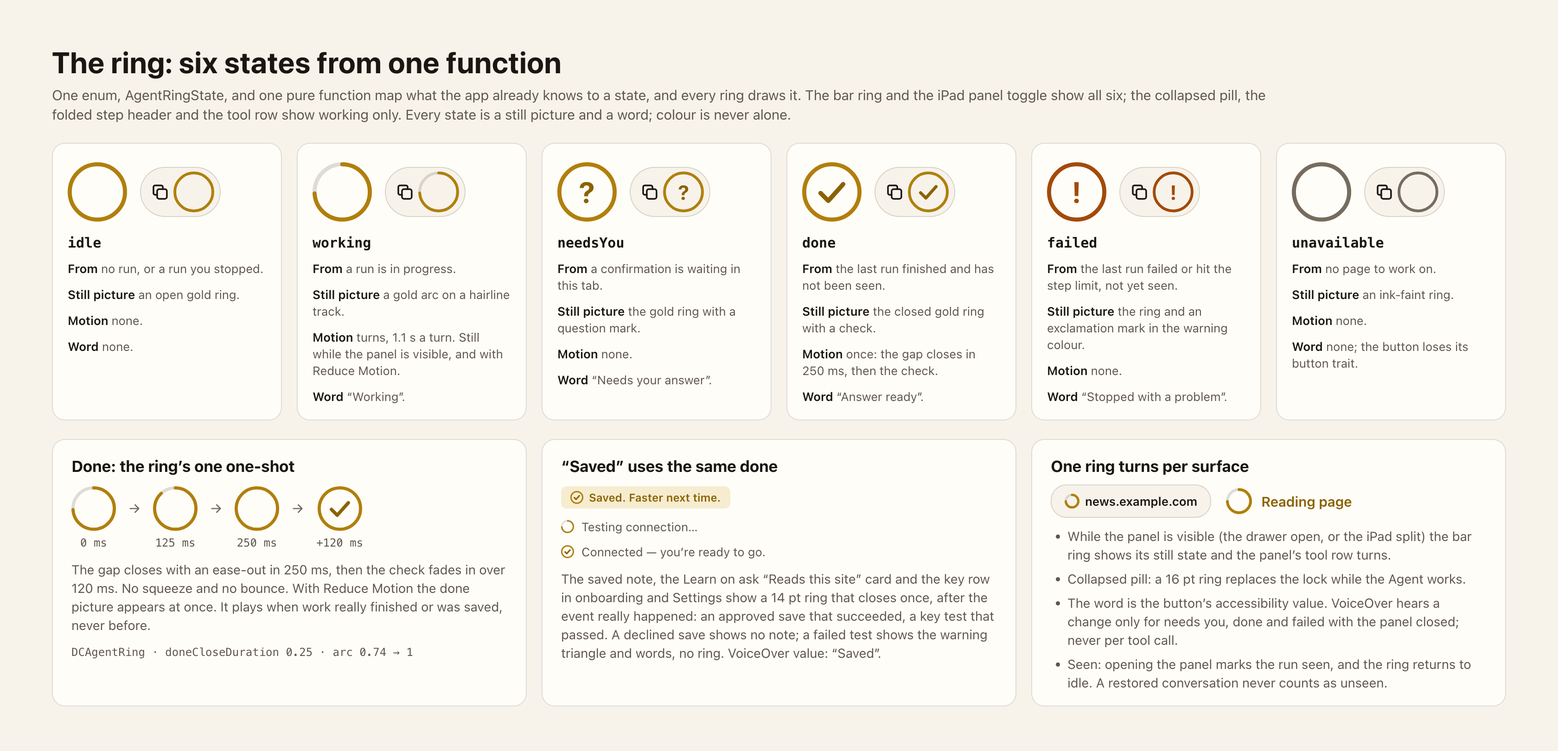
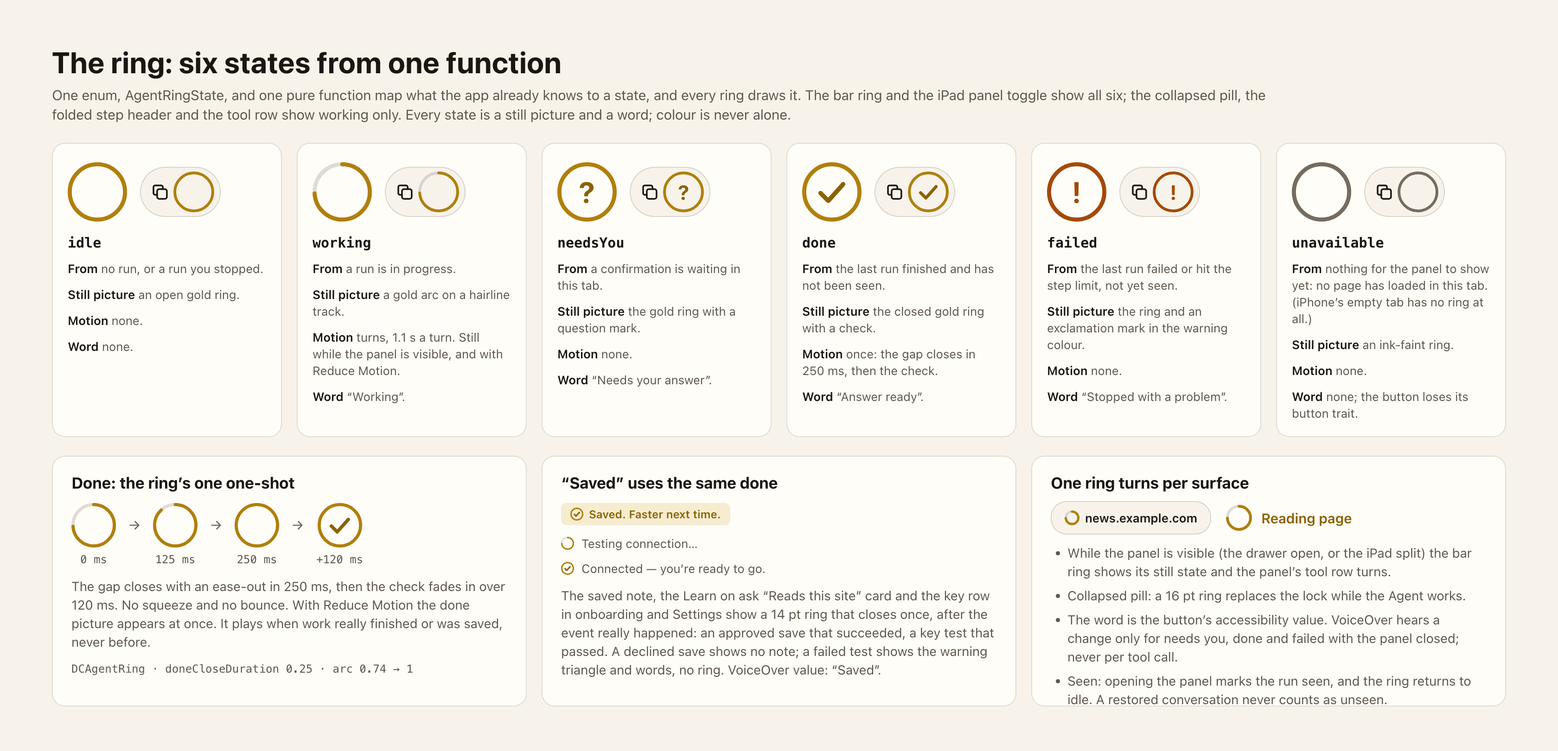
WUKO-200: review fixes: unavailable ring, read aloud wording, canvas v74
- MotionRing: unavailable is 'nothing for the panel to show yet', as
  AgentRingState.resolve and the build have it (iPhone's empty tab has no
  ring; the iPad toggle is gold once a tab has had a page); design-motion.md
  section 8 gains the row
- PhoneTerms: the disabled attribute is quoted (canvas format rule)
- re-exported the two boards and their four PNGs (canvas version 74)
- design-unified.md: the Migration list, Glossary and intro mirror the
  boards: Today, digest and Now playing rows are 'delete'; 'Podcast' is
  'Read aloud' / the listen row, after the build's own strings

diff --git a/docs/wukongmind/design/unified-canvas/PhoneTerms.dc.html b/docs/wukongmind/design/unified-canvas/PhoneTerms.dc.html
@@ -210,7 +210,7 @@ body{margin:0}
 <a href="#" style="display: flex; align-items: center; gap: 8px; font-size: 15px; font-weight: 600; color: var(--blue); text-decoration: none;"><svg viewBox="0 0 24 24" aria-hidden="true" style="width: 16px; height: 16px;"><path d="M7 3h7l4 4v14H7z"/><path d="M14 3v4h4M10 12h5M10 16h5"/></svg>Read the full Terms of Use</a>
 <div style="display: flex; align-items: center; gap: 12px; min-height: 44px;"><span style="flex: 1; font-size: 16px; font-weight: 500;">I agree to the Terms of Use</span><span role="switch" aria-checked="false" aria-label="I agree to the Terms of Use" style="width: 51px; height: 31px; border-radius: 16px; background: var(--raised); position: relative; flex-shrink: 0; box-shadow: inset 0 0 0 1px var(--border);"><span style="position: absolute; top: 2px; left: 2px; width: 27px; height: 27px; border-radius: 14px; background: #fff; box-shadow: 0 1px 3px rgba(0,0,0,.25);"></span></span></div>
 </div></div>
-<div style="position: absolute; left: 0; right: 0; bottom: 0; padding: 12px 20px 40px; border-top: 1px solid var(--border); background: var(--page);"><button disabled style="width: 100%; min-height: 50px; border: 0; border-radius: 10px; background: var(--raised); color: var(--ter); font-size: 17px; font-weight: 600;">Continue</button></div></div><div class="w2cap" style="width: 390px;"><b>Terms of Use: once, before the first run</b>A full-screen page after onboarding’s site step and before step 3. Three plain points, a link to the full text, and one switch. Continue stays disabled until the switch is on. The Terms are also linked from Settings › About.<div class="k">termsGate · Continue disabled</div></div></div><div style="display: flex; flex-direction: column; gap: 20px;"><div class="w2frame"><div style="position: absolute; left: 0; right: 0; top: 62px; padding: 0 20px; display: flex; flex-direction: column; gap: 10px;">
+<div style="position: absolute; left: 0; right: 0; bottom: 0; padding: 12px 20px 40px; border-top: 1px solid var(--border); background: var(--page);"><button disabled="disabled" style="width: 100%; min-height: 50px; border: 0; border-radius: 10px; background: var(--raised); color: var(--ter); font-size: 17px; font-weight: 600;">Continue</button></div></div><div class="w2cap" style="width: 390px;"><b>Terms of Use: once, before the first run</b>A full-screen page after onboarding’s site step and before step 3. Three plain points, a link to the full text, and one switch. Continue stays disabled until the switch is on. The Terms are also linked from Settings › About.<div class="k">termsGate · Continue disabled</div></div></div><div style="display: flex; flex-direction: column; gap: 20px;"><div class="w2frame"><div style="position: absolute; left: 0; right: 0; top: 62px; padding: 0 20px; display: flex; flex-direction: column; gap: 10px;">
 <div style="font-size: 12px; font-weight: 700; letter-spacing: .06em; color: var(--blue);">TERMS OF USE</div>
 <h1 style="margin: 0; font-size: 26px; font-weight: 700;">Before you continue</h1>
 <p style="margin: 0; font-size: 15px; line-height: 21px; color: var(--sec);">Please read and accept the Terms of Use. They explain what isn’t allowed and how to report AI output.</p>

diff --git a/docs/wukongmind/design/unified-canvas/MotionRing.dc.html b/docs/wukongmind/design/unified-canvas/MotionRing.dc.html
@@ -245,7 +245,7 @@ body{margin:0}
 <div class="w2box" style="flex: 1; min-width: 0; display: flex; flex-direction: column; gap: 10px; padding: 16px;">
 <div style="display: flex; align-items: center; gap: 14px; min-height: 72px;"><svg viewBox="0 0 64 64" role="img" aria-label="Agent, unavailable" style="width: 64px; height: 64px; flex-shrink: 0;"><circle cx="32" cy="32" r="29.8" fill="none" stroke="var(--ter)" stroke-width="4.4"/></svg><span style="display: flex; align-items: center; gap: 4px; padding: 4px 6px 4px 10px; border-radius: 28px; border: 1px solid var(--border); background: var(--page); color: var(--label);"><svg viewBox="0 0 24 24" aria-hidden="true" style="width: 21px; height: 21px;"><rect x="8.5" y="8.5" width="12" height="12" rx="2.5"/><path d="M15.5 8.5V6a2 2 0 0 0-2-2H6a2 2 0 0 0-2 2v7.5a2 2 0 0 0 2 2h2.5"/></svg><span style="width: 44px; display: flex; justify-content: center;"><svg viewBox="0 0 44 44" aria-hidden="true" style="width: 44px; height: 44px; flex-shrink: 0;"><circle cx="22" cy="22" r="20.5" fill="none" stroke="var(--ter)" stroke-width="3"/></svg></span></span></div>
 <div class="w2mono" style="font-size: 15px; font-weight: 700;">unavailable</div>
-<div style="font-size: 13px; line-height: 18px; color: var(--sec);"><b style="color: var(--label); font-weight: 600;">From</b> no page to work on.</div>
+<div style="font-size: 13px; line-height: 18px; color: var(--sec);"><b style="color: var(--label); font-weight: 600;">From</b> nothing for the panel to show yet: no page has loaded in this tab. (iPhone’s empty tab has no ring at all.)</div>
 <div style="font-size: 13px; line-height: 18px; color: var(--sec);"><b style="color: var(--label); font-weight: 600;">Still picture</b> an ink-faint ring.</div>
 <div style="font-size: 13px; line-height: 18px; color: var(--sec);"><b style="color: var(--label); font-weight: 600;">Motion</b> none.</div>
 <div style="font-size: 13px; line-height: 18px; color: var(--sec);"><b style="color: var(--label); font-weight: 600;">Word</b> none; the button loses its button trait.</div>

diff --git a/docs/wukongmind/design-unified.md b/docs/wukongmind/design-unified.md
@@ -36,7 +36,7 @@ It follows roadmap v2, "Just ask" ([next-phase.md](next-phase.md), which v2 repl
   - With Reduce Motion it doesn't change pose mid-run; it shows `think` until the result.
 - **Motion.** Motion shows a live signal or a cause, never decoration. Continuous motion is allowed only where it displays something happening now: the turning ring (the Agent is working), the voice level meter (sound in or out), the composer's recording pulse (the microphone is on), and progress (the app's progress bar and the system's own activity spinner). Functional transitions (a suggestion into the input box, a result rising, the browser bar morph, Home appearing over the page, system sheets) finish within 250 ms with no bounce (section 6).
 
-**The end state in one line:** one input box and a mic on every page, no modes, no target switch, one Agent loop. Forum summary, search, podcast and voice become the Agent's tools. The boards draw that look, which the One panel milestone already ships. What changes between milestones is only what runs behind a tap (section 1, "Phases").
+**The end state in one line:** one input box and a mic on every page, no modes, no target switch, one Agent loop. Forum summary, search, read aloud and voice become the Agent's tools. The boards draw that look, which the One panel milestone already ships. What changes between milestones is only what runs behind a tap (section 1, "Phases").
 
 **Gold and the ring mean only the Agent.** That covers the bar's ring and its count, the composer's ring, Agent conversations in Recent and History, a running tool row and the "saved" note.
 - **Site type is internal state.** The This page seal shows the host and the script count ("talk.example.org · 2 scripts"), never "Forum". The forum's grey speech-bubble badge stays only on Home's site tiles; onboarding's site list no longer has it.
@@ -68,7 +68,7 @@ It follows roadmap v2, "Just ask" ([next-phase.md](next-phase.md), which v2 repl
 1. **One input box plus suggestions.** One panel (`AssistantPanel`) with one input box and one mic on every page. Its title is always **Agent**; the Agent's model is chosen in the panel's ⋯ menu. There are no modes and no target switch.
    - **Suggestions.** A row of suggestions sits right above the input box. Each is a full question you could type or say yourself, and a tap sends it. A suggestion that ends in "…" only fills the box with the start of a sentence for you to finish. Typing or saying the same thing must do the same. A suggestion shows when it applies and is absent otherwise, with no grey or disabled state. At most four fit on screen, and more scroll sideways (section 1).
    - **One conversation.** Every result lands in one conversation from one Agent, and the Agent remembers what came before. "Summarize first, then look up the model from point 2, then highlight it on the page" is three messages in a row, with nothing to switch.
-   - **Result kinds stay.** The summary card, the answer with numbered sources and the podcast row stay, drawn as the design system's ResultCard. They are now how Agent tool results display. Each tool call is one row by default, and a row expands.
+   - **Result kinds stay.** The summary card, the answer with numbered sources and the listen row (read aloud) stay, drawn as the design system's ResultCard. They are now how Agent tool results display. Each tool call is one row by default, and a row expands.
    - **Mic.** The trailing button is a mic while the box is empty and Send once you type. In One panel it dictates into the box. From One loop it opens the voice session (section 1, "Voice").
 2. **Capabilities follow the page.** The M1 context row's chip ("N scripts on this page") and the host pill merge into one ink **This page** seal, "talk.example.org · 3 scripts". It sits in the title row, right of "Agent", which saves the panel a row, and it opens the **This page** popover (`PageCapabilitiesView`, which grows from M2's `PageScriptsPopover`). The popover is the one place that shows what is saved for this site (roadmap rule 4). Its groups:
    - **This topic**: the **Following** switch (forum threads only).
@@ -182,7 +182,7 @@ Dashed links with double borders are **placeholders**: their place is reserved, 
 | M3 | Audit log, Workspace | Settings › Agent › Records; the panel's ⋯ › Audit log; "View in audit log" in an expanded tool row | The Records section on the Agent page, drawn dashed |
 | M3 | Confirm before writes | Settings › Agent › Safety | The Safety section, drawn dashed |
 | M3 | Developer mode, part 1 | Settings › Agent › Developer (the switch, default off). When it's on: the token count in the status line, tool code names and durations in tool rows, raw request and reply, tokens and model per step in an expanded tool row, ⋯ › Export task | The Developer section on the Agent page, drawn dashed |
-| One loop | Forum, summary, podcast and follow tools | The suggestion row (taps only send their text) and the conversation (tool rows and results look the same) | Nothing new on screen: the boards already draw it |
+| One loop | Forum, summary, read aloud and follow tools | The suggestion row (taps only send their text) and the conversation (tool rows and results look the same) | Nothing new on screen: the boards already draw it |
 | One loop | Voice session from the mic | The mic in the input box; voice turns join the conversation | The mic's place |
 | M4 | `GM_ai` model | Settings › Models, a third role row "Scripts" ("Same as Summaries") | A dashed row on Models |
 | Learn on ask | Page tool list | This page › Tools on this page; Settings › Scripts & tools › Tools; script detail "Registers N tools" | The group's place in This page |
@@ -223,7 +223,7 @@ AssistantPanel                         // replaces the four modes and their view
   |---|---|---|
   | Typed or spoken text | Goes to the Agent | Goes to the Agent |
   | Summarize this thread and replies (built-in forums) | Calls today's summary engine; the result shows as the summary card | Sends the text; the Agent calls the summary tool and shows the same card |
-  | Read it to me (built-in forums) | Calls today's podcast; the podcast row appears | Sends the text; the Agent calls the podcast tool |
+  | Read it to me (built-in forums) | Calls today's read aloud; the listen row appears | Sends the text; the Agent calls the read-aloud tool |
   | Search this forum… (built-in forums) | Once you finish the sentence, it runs today's Research loop; the answer shows with numbered sources | Sends the text; the Agent calls the forum's search and read tools |
   | Notify me of new replies (built-in forums) | Calls today's follow (`WatchSupport`) | Sends the text; the Agent calls the follow tool |
   | Suggestions on other sites | Send their text to the Agent | Same |
@@ -413,7 +413,7 @@ OnboardingFlow
 | Job in progress | `AssistantProgressBar` sweeps (or fills determinately), and system `ProgressView()` spinners turn | `TimelineView(.animation(minimumInterval: 1 / 60))`; Reduce Motion: indeterminate bar keeps a slow opacity pulse |
 | A run ends | The ring stops and becomes the check. Success haptic; the mascot swaps to `cheer` for about 3 s (a swap, not an animation). With the panel closed, a collapsed bar springs open once no finger is on the page, and the Dock shows "Answer ready" | `DCHaptics.success()` |
 | A run fails or hits the step limit | Warning haptic. The explanation appears in the conversation and is announced | `DCHaptics.warning()` |
-| Open This page, Settings, the code sheet, Now playing | The system popover and sheet transitions; Settings push and pop | `.popover`, `.sheet`, `NavigationStack` |
+| Open This page, Settings, the code sheet | The system popover and sheet transitions; Settings push and pop | `.popover`, `.sheet`, `NavigationStack` |
 | The drawer moves between detents; the keyboard rises | System behaviour | `presentationDetents`, the keyboard |
 | Everything else | Changes in place without animation: the suggestion row changes with the page, the mic becomes Send, counts change | no `withAnimation` |
 
@@ -457,7 +457,7 @@ Per roadmap section 6: the four modes and their views become one conversation vi
 | `AIDrawer` (iPhone drawer), `WorkspaceView` (iPad side panel) | keep | The same two containers |
 | `AssistantPanel` (`SummaryPanel.swift`) | keep | The one panel. Its per-mode branches go |
 | Summary mode view | merge | The suggestion "Summarize this thread and replies" (or "Summarize this page") → the summary ResultCard in the conversation; ⤢ → `ExpandedPanel`. One panel: today's summary engine. One loop: the summary tool, same card |
-| Podcast from the panel | merge | The suggestion "Read it to me" → podcast row. One loop: the podcast tool |
+| Read aloud from the panel (was Podcast) | merge | The suggestion "Read it to me" → listen row. One loop: the read-aloud tool |
 | Ask the forum (`AgentPanel.swift`, `AssistantMode.agent`, `AgentEngine` with `AgentPlanner`, `AgentActionParser`, `AgentPrompt`, `AgentToolName`) | delete | One panel: runs behind "Search this forum…", with its answer shown with numbered sources. One loop: deleted; its rules become text added to the Agent's prompt, and the citation view stays |
 | Chat mode (`sendChat` in `AppModel`) | delete | No entry in One panel: questions about a thread go to the Agent, which reads the page. Engine deleted in One loop |
 | `BrowserAgentPanelView` | merge | The conversation itself: ToolRows (one per call, folding into "Steps N"), cards, status line, composer |
@@ -478,7 +478,7 @@ Per roadmap section 6: the four modes and their views become one conversation vi
 | Existing | Kind | Where it lands |
 |---|---|---|
 | `HomeView` header (History, Settings) | keep | Unchanged |
-| `TodayModule`, `PodcastHomeCard`, `DigestStrip` | keep | Below the address field, only when there is something |
+| `TodayModule`, `PodcastHomeCard`, `DigestStrip` | delete | Removed with the daily digest (2026-11-19, WUKO-182) |
 | Continue reading (`ContinueReadingRow`, `NewRepliesBadge`) | keep | Any site |
 | Pinned forums section | merge | The Sites grid (pinned first) |
 | Recent forums section | merge | The Sites grid (frequent) |
@@ -488,14 +488,14 @@ Per roadmap section 6: the four modes and their views become one conversation vi
 | `.pinnedForums` (all forums sheet), `ForumDirectory` | move | Settings › Sites › Forums |
 | `.shareHowTo` (`ShareHowToSheet`) | keep | Opened from Help & about |
 | `HistoryView` | keep | Holds all conversations and results. Segments: All, **Conversations**, **Following** (was Watching). Older summaries and forum answers stay as they are. Home's Recent shows its newest items |
-| `TodayPage`, `DigestHistoryPage`, `DigestCardView` | keep | Unchanged, from Home's Today card |
-| `NowPlayingView` (`.nowPlaying`) | keep | Unchanged |
+| `TodayPage`, `DigestHistoryPage`, `DigestCardView` | delete | Removed with the daily digest (2026-11-19, WUKO-182) |
+| `NowPlayingView` (`.nowPlaying`) | delete | Removed with the daily digest (2026-11-19, WUKO-182) |
 
 ### Settings, page by page
 
 | Existing `SettingsPage` / section | Kind | Where it lands |
 |---|---|---|
-| Root: the Voice row at the top | delete | It duplicated Voice & digest › Voice |
+| Root: the Voice row at the top | delete | It duplicated Voice › Voice |
 | Root: `ReadingLanguagePicker` | move | Models › Answer language |
 | `.provider` "AI models" | keep | Retitled **Models**, with two roles, Agent and Summaries (case name unchanged) |
 | `.summaries` summary batching, custom instructions | move | Models › Summaries |
@@ -505,8 +505,8 @@ Per roadmap section 6: the four modes and their views become one conversation vi
 | `.agent` "Browser agent" section (steps, truncation) | move | **Agent** (`.agent`) › Runs |
 | `.watched` Watched topics | move | Sites › Forums › **Following** |
 | `.forums` | move | Sites › Forums |
-| `.digest` (incl. `SettingsPodcastSections`) | keep | Voice & digest |
-| `.voice` | keep | Voice & digest |
+| `.digest` (incl. `SettingsPodcastSections`) | delete | Removed with the daily digest (2026-11-19, WUKO-182) |
+| `.voice` | keep | Voice |
 | `.browser` bar position, start page | keep | Browser, after the new Search engine setting |
 | `.browser` `ContentBlockingSettingsSections` (ads, trackers, allowed sites) | move | Sites › Ads & trackers |
 | `.sync`, `.data` | keep | Your data |
@@ -525,7 +525,7 @@ Per roadmap section 6: the four modes and their views become one conversation vi
 | `OnboardingWelcomePage` | merge | Step 1's header |
 | `OnboardingProviderPage` | keep | Step 1, for the Agent role |
 | `OnboardingForumsPage`, `OnboardingForumIcon` | merge | Step 2 (any site; no forum badge) |
-| `OnboardingDailyPage` | move | Settings › Daily digest & podcast (no step) |
+| `OnboardingDailyPage` | delete | Removed with the daily digest (2026-11-19, WUKO-182) |
 | `OnboardingSyncCard`, `OnboardingDoneSyncRow` | merge | Step 3's "You're set" card |
 | `OnboardingDonePage`, `ChecklistMark` | merge | Step 3's "You're set" card |
 | `OnboardingPrivacyPage`, `PrivacyPoints` | cleanup | Goes with consent. Step 1 keeps the one line about keys |
@@ -541,20 +541,20 @@ One word per thing, the same in the UI and the docs. The code column shows today
 
 | Word (UI) | Means | Not called | Code today |
 |---|---|---|---|
-| **Agent** | The one loop with tools behind the input box. It reads and changes pages, and from One loop it also summarizes, searches forums, makes podcasts and follows threads through tools. The only thing called Agent, and the only thing in gold or with the ring | browser agent (in the UI), assistant, Research | `BrowserAgent`, `ToolRegistry`, `ModelRole.browserAgent` |
+| **Agent** | The one loop with tools behind the input box. It reads and changes pages, and from One loop it also summarizes, searches forums, reads aloud and follows threads through tools. The only thing called Agent, and the only thing in gold or with the ring | browser agent (in the UI), assistant, Research | `BrowserAgent`, `ToolRegistry`, `ModelRole.browserAgent` |
 | **Assistant** (the panel) | The one panel beside the page: the conversation, the suggestion row and the input box. Its title is always "Agent" | AI drawer, mode | `AssistantPanel` |
 | **Suggestion** | A question above the input box that you could type or say yourself. A tap sends it; one ending in "…" fills the box for you to finish. Shown only where it applies, never greyed out | quick action, mode, shortcut | new |
 | **Conversation** | Everything in the panel: your messages, one row per tool call, the Agent's replies and the tool results. It holds one or more tasks. One Agent remembers it. In One panel, a tapped forum result reaches it as attached context | chat, mode, session | `BrowserAgentSession` |
 | **Task** | One request and the Agent's run for it, from your message to the final result. The unit of task export (M3, developer mode) | job, run | one run inside `BrowserAgentSession` |
 | **Summary** | A structured summary of a thread or page, shown as the summary card | | unchanged |
-| **Podcast** | A spoken version of a thread, an answer or Today. Asked for with "Read it to me" | Listen (as a button) | `Podcast/` |
+| **Read aloud** | A spoken version of a thread or an answer. Asked for with "Read it to me"; it shows as the listen row. (Was "Podcast"; the two-host podcast and the daily digest were removed on 2026-11-19, WUKO-182) | podcast, Listen (as a button) | `Podcast/` (`PodcastPlayer`) |
 | **Voice** | Talking to the Agent. In One panel the mic dictates into the box. From One loop the mic opens the voice session, which shares the Agent's tools, and its turns join the conversation | Listen | `Voice*` views |
 | **Follow** | Get told when a thread has new replies. Asked for with "Notify me of new replies". The state, the switch and the confirmation say **Following** | Watch | `watchedTopics` |
 | **Site** | Any website | | — |
 | **Forum** | A site with a built-in adapter (Discourse, WordPress, Hacker News), or, from Learn on ask, one the page check recognises (it then gets the forum suggestions). Its grey speech-bubble badge shows only on Home's site tiles | | `SiteAdapter`, `Forum` |
 | **This page** | What is saved for the current page and site: Following, scripts, tools, site switches. Its seal shows the host and script count | page info | new `PageCapabilitiesView` |
 | **Script** | Saved JavaScript/CSS in ScriptStore that runs on matching pages. It changes the page (M2) or registers tools (Learn on ask) | userscript (only in export/import), extension | `ScriptStore` |
-| **Tool** | A function the Agent can call. It comes from the app (built-in), a built-in adapter, a capability (summary, podcast, notify, follow), a script, or the site (WebMCP) | action, command | `ToolRegistry`; source prefixes per roadmap section 5 |
+| **Tool** | A function the Agent can call. It comes from the app (built-in), a built-in adapter, a capability (summary, read aloud, notify, follow), a script, or the site (WebMCP) | action, command | `ToolRegistry`; source prefixes per roadmap section 5 |
 | **History** | All conversations and results. Home's **Recent** shows its newest items | recent tasks | `HistoryView` |
 | **Home** | The browser's start page | | `HomeView` |
 | **Workspace** (M3) | The Agent's file folder, visible in Files | | — |
@@ -584,8 +584,8 @@ Every public `struct …: View` / `ViewModifier` under `WukongMind/` is named on
 | `SettingsWatchedPage` | move | Sites › Following |
 | `SettingsForumsPage`, `PinnedForumsEditor`, `ForumRow`, `ForumTile`, `ForumTileLabel`, `ForumSwitcherLabel` | move | Sites › Forums (tiles reused by Home's Sites grid) |
 | `SettingsBrowserPage` | keep | Browser, minus ads & trackers |
-| `SettingsDigestPage`, `PodcastTodaySection`, `PodcastDisclosure`, `DigestIcon` | keep | Voice & digest |
-| `SettingsVoicePage` | keep | Voice & digest › Voice |
+| `SettingsDigestPage`, `PodcastTodaySection`, `PodcastDisclosure`, `DigestIcon` | delete | Removed with the daily digest (2026-11-19, WUKO-182) |
+| `SettingsVoicePage` | keep | Voice › Voice |
 | `SettingsSyncPage`, `SettingsSyncRow`, `SyncStatusRow`, `SettingsDataPage` | keep | Your data |
 | `SettingsHelpPage`, `SettingsAcknowledgementsPage`, `SettingsSharingPage`, `ShareStepRow`, `ShareSheetIllustration`, `ShareActionsIllustration` | keep | Help & about |
 | `SettingsDestination`, `SettingsIconRow`, `SettingsRowLabel`, `SettingsStatusPill` | keep | Settings building blocks |

diff --git a/docs/wukongmind/design/README.md b/docs/wukongmind/design/README.md
@@ -3,6 +3,6 @@
 Copies of the owner-confirmed design artifacts, so agents that can't open claude.ai artifacts can implement them. The artifacts remain the source of truth: this folder is a read-only export, never edited by hand, and is re-exported after every artifact change, with a PNG of every new or changed artboard (see [../README.md](../README.md) "Where design output lives").
 
 - `design-system/`: the WukongMind design system (https://claude.ai/artifact/5fGhnS4fmcmWYZbPoKTTZ2), exported 2026-11-13; WUKO-107's `BrowserBar`, glass-capsule and bar-morph rules (written in the repo first) were applied to the artifact and re-exported on 2026-11-15 in task D1b (WUKO-119), design-system version 11; the motion rule, the ring's six states and the address bar's Home, edit and suggestion states ([design-motion.md](../design-motion.md)) were applied on 2026-11-20 in Motion task 8 (WUKO-200), design-system version 15 (`README.md` "The ring" and the Motion line, `components/BrowserBar` README and preview, `components/ToolRow` and `components/Composer` READMEs). `README.md` (foundations, colour meanings, the ring, shape, type, motion, the DCTheme migration table), `tokens.json` (colour tokens light/dark, type styles, spacing, radius, shadow, border), `components/<Name>/README.md` + `preview.html` (reference drawings in HTML/CSS using the token CSS variables; implement in SwiftUI), `assets/Logo/` and `assets/Mascot/` (SVGs, the 1024 app icon PNG, usage READMEs).
-- `unified-canvas/`: the boards of the unified interface design (https://claude.ai/artifact/Daefr4AsZcSm2EWbTLU9uK), exported 2026-11-13 (re-exported the same day with the M3 and One loop boards, canvas version 57; WUKO-77's boards added 2026-11-14, canvas version 63, with Fable's second-review updates to `PhoneBar`, `PhoneTabs` and `PhoneProviderModels` synced back to the canvas in task D1b (WUKO-119, canvas version 66); the M4 boards added 2026-11-15, canvas version 65; the Learn on ask boards added 2026-11-15, canvas version 69 after the Fable design review; the Motion boards added and Home, onboarding, Settings and the text boards updated 2026-11-20 in Motion task 8 (WUKO-200), canvas version 73). Each `*.dc.html` is one board's markup and CSS (light theme variables in `.lt`, dark in `.dk`; `*Dark.dc.html` boards just render the light board with the dark theme). They depend on the design tool's runtime, so they won't render standalone in a browser: read them as layout and style specs. `canvas.json` lists the boards and their order. Image references point to the files in `design-system/assets/`. The written spec is `docs/wukongmind/design-unified.md`. `png/<Board>.png` holds 2x PNGs of the boards added or changed since the first export (light and dark), rendered locally with headless Chrome from these files (theme filled in, image paths pointed at `design-system/assets/`); the boards' own markup stays the spec.
+- `unified-canvas/`: the boards of the unified interface design (https://claude.ai/artifact/Daefr4AsZcSm2EWbTLU9uK), exported 2026-11-13 (re-exported the same day with the M3 and One loop boards, canvas version 57; WUKO-77's boards added 2026-11-14, canvas version 63, with Fable's second-review updates to `PhoneBar`, `PhoneTabs` and `PhoneProviderModels` synced back to the canvas in task D1b (WUKO-119, canvas version 66); the M4 boards added 2026-11-15, canvas version 65; the Learn on ask boards added 2026-11-15, canvas version 69 after the Fable design review; the Motion boards added and Home, onboarding, Settings and the text boards updated 2026-11-20 in Motion task 8 (WUKO-200), canvas version 74). Each `*.dc.html` is one board's markup and CSS (light theme variables in `.lt`, dark in `.dk`; `*Dark.dc.html` boards just render the light board with the dark theme). They depend on the design tool's runtime, so they won't render standalone in a browser: read them as layout and style specs. `canvas.json` lists the boards and their order. Image references point to the files in `design-system/assets/`. The written spec is `docs/wukongmind/design-unified.md`. `png/<Board>.png` holds 2x PNGs of the boards added or changed since the first export (light and dark), rendered locally with headless Chrome from these files (theme filled in, image paths pointed at `design-system/assets/`); the boards' own markup stays the spec.
 
-Key boards: `PhonePanelForum`, `PhonePanelPage`, `PanelStates`, `KeyboardUp`, `SuggestionRow`, `PhoneThisPage` (assistant panel); `PhoneHome`, `IPadHome` (start page); `PhoneSettings`, `PhoneModels`, `PhoneAgentSettings`, `PhoneSites`, `IPadSettings` (settings); `PhoneOnb1-3`, `IPadOnb` (onboarding); `Motion`; `IA` (screen map), `Migration`, `Glossary`. `PhoneResearch` shows the One loop stage, not One panel. M3 (spec `design-m3.md`): `PhoneConfirm` (the confirmation card: login on another site, cookies, after Don't allow), `PhoneScreenshot` (screenshot thumbnail in the tool row, full-size sheet, warning before and after). One loop (spec `design-one-loop.md`): `PhoneSavedAnswer` (read-only saved answer from History or Home's Recent), `PhoneVoice` (voice turns in the conversation). Each has a `*Dark` board. WUKO-77 (spec `design-browser-bar-tabs-models.md`, proposed): `PhoneBar` (Safari-like bar keyframes, Agent running, top position, Home, motion), `IPadBar`, `PhoneTabs` (tab overview, one conversation per tab, closing a tab), `IPadTabs`, `PhoneProviderModels` (the provider page's Models list, ⋯ menu, states, no tool calling); each has a `*Dark` board. M4 (spec `design-m4.md`): `M4ImportPhone` (the import review sheet: new script top and scrolled, update form, can't import), `M4ImportPad` (the same sheet as an iPad form sheet: new and update), `M4ScriptDetail` (Update available, Can use, AI use and Clear AI cache, Check now, Let the Agent fix it), `M4ThisPage` (menu commands, fix button, model unreachable line; the Fixed card with Undo; the Uses AI card), `M4Settings` (Settings › Scripts with Import from link…, Check for updates and AI in scripts; Models with the Scripts row and page). Each has a `*Dark` board. Their PNGs were rendered the same way. Learn on ask (spec `design-learn-on-ask.md`, Visual design, Suggestions, Developer mode part 2): `LearnSuggestions` (iPhone: the chips on an unknown forum that looks like a thread, the first learning with the Reads this site script card, a learned thread and a learned list), `LearnThisPage` (This page with the Reads this site line, This page › Developer › Site inspector, the confirmation card before a site's own tool runs, Settings › Agent › Page tools), `LearnInspector` (iPhone: the site inspector's tools and reading, last check, learning log, site notes and Forget; the tool trial run; the warning before a site tool's trial run), `LearnInspectorPad` (in an iPad form sheet: the inspector's tools and reading, its last check, log, notes and Forget, a trial run with its check, and the warning), `LearnPadPanel` (iPad side panel: a learned thread's one-call summary and chips, the card before a site's own tool runs, This page with Reads this site and Site inspector). Each has a `*Dark` board, and their PNGs were rendered the same way. Motion (spec `design-motion.md`, canvas version 73): `MotionRing` (the Agent ring's six states from one function, the done one-shot, "Saved"), `PhoneAddress` (iPhone: Home over the page when the address field is tapped, the suggestion rows for a question, an address and a search, and the empty tab with no Ask row), `IPadAddress` (iPad: Home over the page column with the side panel untouched, and keyboard selection in the suggestions; **per design, iPad build pending**, Motion task 6), `PhoneTerms` (Terms of Use before and after agreeing, and the AI data consent page). Each has a `*Dark` board. Updated in place in the same task: `Motion` (the rule "a live signal or a cause, never decoration"), `PhoneBar` (its Home frame: the bar shows its own field), `PhoneHome` and `IPadHome` (no address field, no Today card), `PhoneOnb1` and `IPadOnb` (step 1 as built, with the key row's done ring), `PhoneOnb3`, `PhoneSettings`, `IPadSettings` and `PhoneSites` (no daily digest; pinned sites), and the text boards `Main`, `IA`, `Glossary` and `Migration`. PNGs of every one of them, light and dark, were rendered the same way; the boards were checked against simulator screenshots of the build, and the differences are listed in `design-motion.md` section 8.
+Key boards: `PhonePanelForum`, `PhonePanelPage`, `PanelStates`, `KeyboardUp`, `SuggestionRow`, `PhoneThisPage` (assistant panel); `PhoneHome`, `IPadHome` (start page); `PhoneSettings`, `PhoneModels`, `PhoneAgentSettings`, `PhoneSites`, `IPadSettings` (settings); `PhoneOnb1-3`, `IPadOnb` (onboarding); `Motion`; `IA` (screen map), `Migration`, `Glossary`. `PhoneResearch` shows the One loop stage, not One panel. M3 (spec `design-m3.md`): `PhoneConfirm` (the confirmation card: login on another site, cookies, after Don't allow), `PhoneScreenshot` (screenshot thumbnail in the tool row, full-size sheet, warning before and after). One loop (spec `design-one-loop.md`): `PhoneSavedAnswer` (read-only saved answer from History or Home's Recent), `PhoneVoice` (voice turns in the conversation). Each has a `*Dark` board. WUKO-77 (spec `design-browser-bar-tabs-models.md`, proposed): `PhoneBar` (Safari-like bar keyframes, Agent running, top position, Home, motion), `IPadBar`, `PhoneTabs` (tab overview, one conversation per tab, closing a tab), `IPadTabs`, `PhoneProviderModels` (the provider page's Models list, ⋯ menu, states, no tool calling); each has a `*Dark` board. M4 (spec `design-m4.md`): `M4ImportPhone` (the import review sheet: new script top and scrolled, update form, can't import), `M4ImportPad` (the same sheet as an iPad form sheet: new and update), `M4ScriptDetail` (Update available, Can use, AI use and Clear AI cache, Check now, Let the Agent fix it), `M4ThisPage` (menu commands, fix button, model unreachable line; the Fixed card with Undo; the Uses AI card), `M4Settings` (Settings › Scripts with Import from link…, Check for updates and AI in scripts; Models with the Scripts row and page). Each has a `*Dark` board. Their PNGs were rendered the same way. Learn on ask (spec `design-learn-on-ask.md`, Visual design, Suggestions, Developer mode part 2): `LearnSuggestions` (iPhone: the chips on an unknown forum that looks like a thread, the first learning with the Reads this site script card, a learned thread and a learned list), `LearnThisPage` (This page with the Reads this site line, This page › Developer › Site inspector, the confirmation card before a site's own tool runs, Settings › Agent › Page tools), `LearnInspector` (iPhone: the site inspector's tools and reading, last check, learning log, site notes and Forget; the tool trial run; the warning before a site tool's trial run), `LearnInspectorPad` (in an iPad form sheet: the inspector's tools and reading, its last check, log, notes and Forget, a trial run with its check, and the warning), `LearnPadPanel` (iPad side panel: a learned thread's one-call summary and chips, the card before a site's own tool runs, This page with Reads this site and Site inspector). Each has a `*Dark` board, and their PNGs were rendered the same way. Motion (spec `design-motion.md`, canvas version 74): `MotionRing` (the Agent ring's six states from one function, the done one-shot, "Saved"), `PhoneAddress` (iPhone: Home over the page when the address field is tapped, the suggestion rows for a question, an address and a search, and the empty tab with no Ask row), `IPadAddress` (iPad: Home over the page column with the side panel untouched, and keyboard selection in the suggestions; **per design, iPad build pending**, Motion task 6), `PhoneTerms` (Terms of Use before and after agreeing, and the AI data consent page). Each has a `*Dark` board. Updated in place in the same task: `Motion` (the rule "a live signal or a cause, never decoration"), `PhoneBar` (its Home frame: the bar shows its own field), `PhoneHome` and `IPadHome` (no address field, no Today card), `PhoneOnb1` and `IPadOnb` (step 1 as built, with the key row's done ring), `PhoneOnb3`, `PhoneSettings`, `IPadSettings` and `PhoneSites` (no daily digest; pinned sites), and the text boards `Main`, `IA`, `Glossary` and `Migration`. PNGs of every one of them, light and dark, were rendered the same way; the boards were checked against simulator screenshots of the build, and the differences are listed in `design-motion.md` section 8.

diff --git a/docs/wukongmind/design-motion.md b/docs/wukongmind/design-motion.md
@@ -210,7 +210,7 @@ Ordered by felt value per effort. Each is one pull request with its own check. S
 | Canvas `PhoneOnb1` (+Dark), `IPadOnb` | The key row's done ring (after the App Store pages are drawn) | 8 |
 | `design-unified.md` §3; `design-browser-bar-tabs-models.md`, the "Home" row of the ring table | Home has no field; the bar shows its field on Home | 4 (text), 8 (boards) |
 
-**Where task 8 put it** (canvas version 73, design-system version 15, exported 2026-11-20). The existing boards kept their sizes, so nothing on the canvas moved: `Motion`, `PhoneBar` (its Home frame), `PhoneHome`, `IPadHome`, `PhoneOnb1`, `PhoneOnb3` and `IPadOnb` (now step 1, where the key row is) were redrawn in place. The ring states, the edit state over Home and the suggestions needed more room than `PhoneBar` and `IPadBar` have, so they are new boards in a new canvas section: `MotionRing` (six states, the done one-shot, Saved), `PhoneAddress` (Home over the page, the four kinds of row 1, the empty tab), `IPadAddress` (the page-column overlay and keyboard selection, marked "per design, iPad build pending") and `PhoneTerms` (Terms of Use and AI data consent). `IPadBar` is unchanged. The removal of the daily digest and the podcast (WUKO-182) and pinned sites (WUKO-181) were applied to `PhoneHome`, `IPadHome`, `PhoneSettings`, `IPadSettings`, `PhoneSites`, `Main`, `IA`, `Glossary` and `Migration`.
+**Where task 8 put it** (canvas version 74, design-system version 15, exported 2026-11-20). The existing boards kept their sizes, so nothing on the canvas moved: `Motion`, `PhoneBar` (its Home frame), `PhoneHome`, `IPadHome`, `PhoneOnb1`, `PhoneOnb3` and `IPadOnb` (now step 1, where the key row is) were redrawn in place. The ring states, the edit state over Home and the suggestions needed more room than `PhoneBar` and `IPadBar` have, so they are new boards in a new canvas section: `MotionRing` (six states, the done one-shot, Saved), `PhoneAddress` (Home over the page, the four kinds of row 1, the empty tab), `IPadAddress` (the page-column overlay and keyboard selection, marked "per design, iPad build pending") and `PhoneTerms` (Terms of Use and AI data consent). `IPadBar` is unchanged. The removal of the daily digest and the podcast (WUKO-182) and pinned sites (WUKO-181) were applied to `PhoneHome`, `IPadHome`, `PhoneSettings`, `IPadSettings`, `PhoneSites`, `Main`, `IA`, `Glossary` and `Migration`.
 
 ## 6. Checked in this task
 
@@ -242,7 +242,7 @@ Each redrawn or new board was compared with simulator screenshots of the build a
 | Screen | Difference between board and build | Outcome |
 |---|---|---|
 | Home on the empty tab, iPhone | The earlier board and the bar spec gave the bar a mic in place of the ring. The build shows back, the field and tabs; the mic appears only once voice is set up, and there is no ring | Board and the "Home" row of design-browser-bar-tabs-models.md fixed to the build |
-| Home on the empty tab, iPad | The build keeps the ring in the bar on an empty tab (it is the panel toggle there) | Board drawn as built |
+| Home on the empty tab, iPad | The build keeps the ring in the bar on an empty tab: it is the panel toggle there, gold (idle) once the tab has had a page or topic, and `unavailable` (ink-faint) only while the panel has nothing to show | Board drawn as built (gold). Section 2's "unavailable: no page to work on" is narrower in the build than it reads: iPhone's empty tab shows no ring at all, so `unavailable` appears only before a tab's first page has loaded. `MotionRing` says so |
 | Suggestions for an address on a site with search | Section 3's table lists "Open", then the web search. The build puts "Search *site*" between them | Board drawn as built; the extra row costs nothing and is consistent with "search this site" elsewhere |
 | The keyboard's Return key | Section 3 says the key keeps one label, "Go". With the `.webSearch` keyboard the system draws its blue arrow key | Board drawn as built; the rule (one unchanging key) holds |
 | The failed ring | Section 2 says "the warning mark". The build draws an exclamation mark in the `warning` colour | Board drawn as built |
@@ -250,4 +250,6 @@ Each redrawn or new board was compared with simulator screenshots of the build a
 | Settings root and Settings › Sites | **Design gap in the boards, not fixed here.** The build shows the inline title with a round Done or Back button and sentence-case section headers ("Assistant"); the Settings boards (`PhoneSettings`, `PhoneSites`, `PhoneModels`, `PhoneAgentSettings`, `IPadSettings`, `M4Settings`) still draw a large title and upper-case headers. Rows and values were brought in line (no digest row, "3 sites", Pinned sites, Limit request rate with Gentle, Standard and Fast) | A later design task should redraw the Settings chrome on all of those boards at once |
 | iPad, editing the address | The build shows the edit field and Cancel over the page column and keeps the page visible; no Home overlay and no suggestions yet | Expected: Motion task 6 is in flight. `IPadAddress` is drawn from section 3 and marked "per design, iPad build pending" |
 
-Not proven in task 8 (also in its proof): the key row's done ring ("Connected — you're ready to go.") and the failed ring were not caught in a screenshot, and are drawn from `ProviderTestStatusView` and `DCAgentRing`; the done one-shot's timing is from the code's constants, not measured; the boards are 390 × 844 and 1194 × 834 pt drawings, compared by eye with 402 × 874 and 1180 × 820 pt screenshots, not overlaid.
+Not proven in task 8 (also in its proof): the key row's done ring ("Connected — you're ready to go."), the failed ring and the unavailable ring were not caught in a screenshot, and are drawn from `ProviderTestStatusView`, `DCAgentRing` and `AgentRingState.resolve`; the done one-shot's timing is from the code's constants, not measured; the boards are 390 × 844 and 1194 × 834 pt drawings, compared by eye with 402 × 874 and 1180 × 820 pt screenshots, not overlaid.
+
+Wording chosen in task 8: what the boards and design-unified.md called "podcast" (the row and the tool) is now "read aloud" and "the listen row", after the build's own strings ("Read aloud", "Read it to me", "Listen"); the two-host podcast itself was removed with the daily digest.
